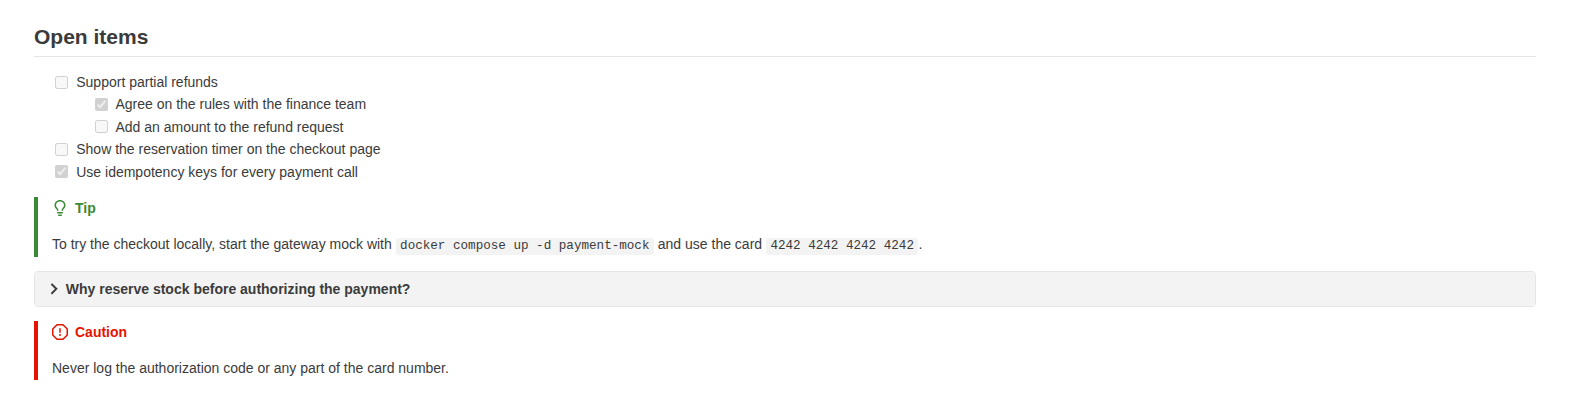
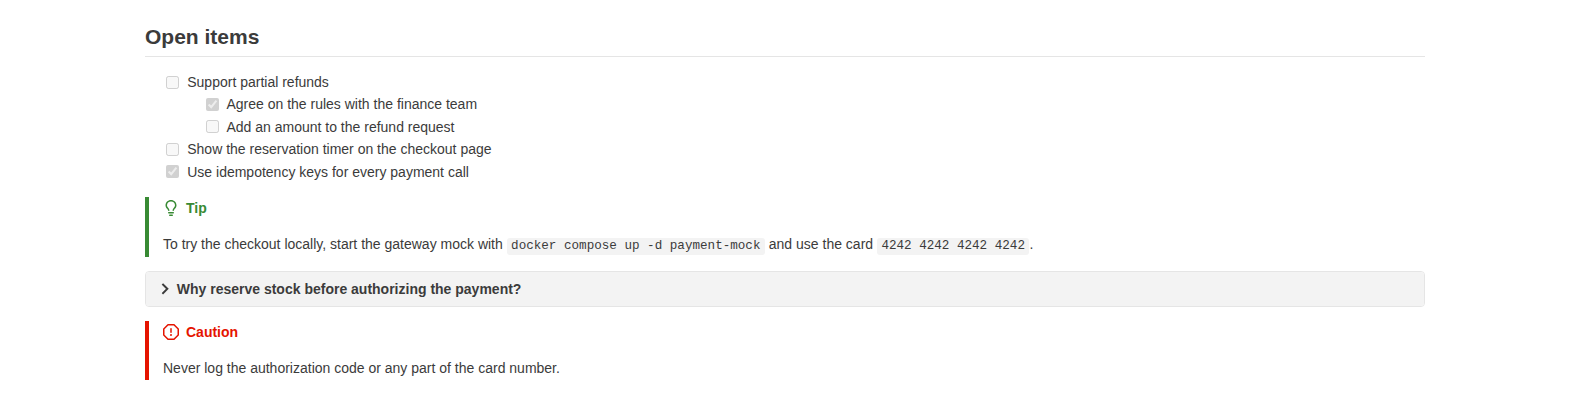
広いプレビューで本文を最大 1280px の中央カラムに収める
図と処理概要の横並び部分は従来どおり全幅で表示する。

diff --git a/webview/preview.css b/webview/preview.css
@@ -295,6 +295,15 @@ body:is(.vscode-light, .vscode-high-contrast-light) {
 .seqnotes-warnings-close:hover { background: var(--vscode-toolbar-hoverBackground, rgba(128, 128, 128, 0.2)); }
 .seqnotes-warnings-close:focus-visible { outline: 1px solid var(--vscode-focusBorder); }
 
+/* ---------------------------------------------------------------- Content width */
+
+/*
+ * Text reads better in a limited width: everything but the side-by-side diagrams is kept in a centered column.
+ * Margins rather than max-width + auto margins, so that narrower blocks such as tables stay at the left of the column.
+ */
+#seqnotes-root > * { margin-inline: max(0px, (100% - 1280px) / 2); }
+body.seqnotes-wide #seqnotes-root > .seqnotes-pair:not(.seqnotes-pair-stacked) { margin-inline: 0; }
+
 /* ---------------------------------------------------------------- Side-by-side layout */
 
 body.seqnotes-wide .seqnotes-pair:not(.seqnotes-pair-stacked) {

diff --git a/CHANGELOG.md b/CHANGELOG.md
@@ -5,6 +5,7 @@
 - The arrow numbers shown at the start of linked headings with `autonumber` can be hidden with `mdDesignDoc.headingNumbers`.
 - GitHub alerts show the icon of their kind before the title, as on GitHub.
 - Images open full screen when clicked, to zoom and pan them like diagrams. Images in a link still open the link.
+- In a wide preview, the text is kept in a centered column up to 1280px wide. Diagrams shown beside their steps still use the whole width.
 
 ## 0.3.0
 
